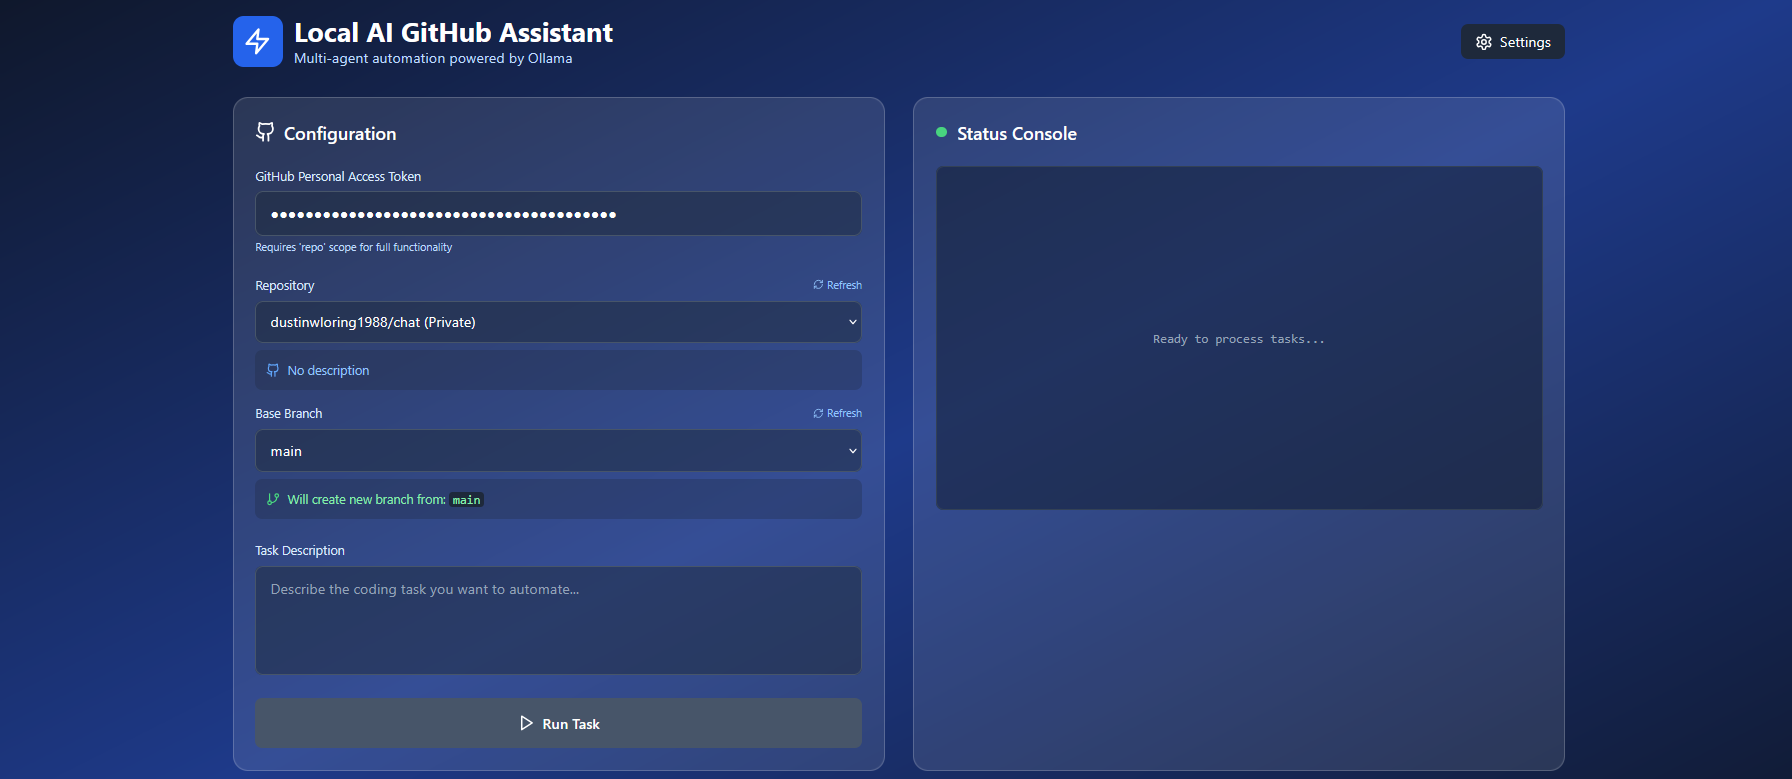
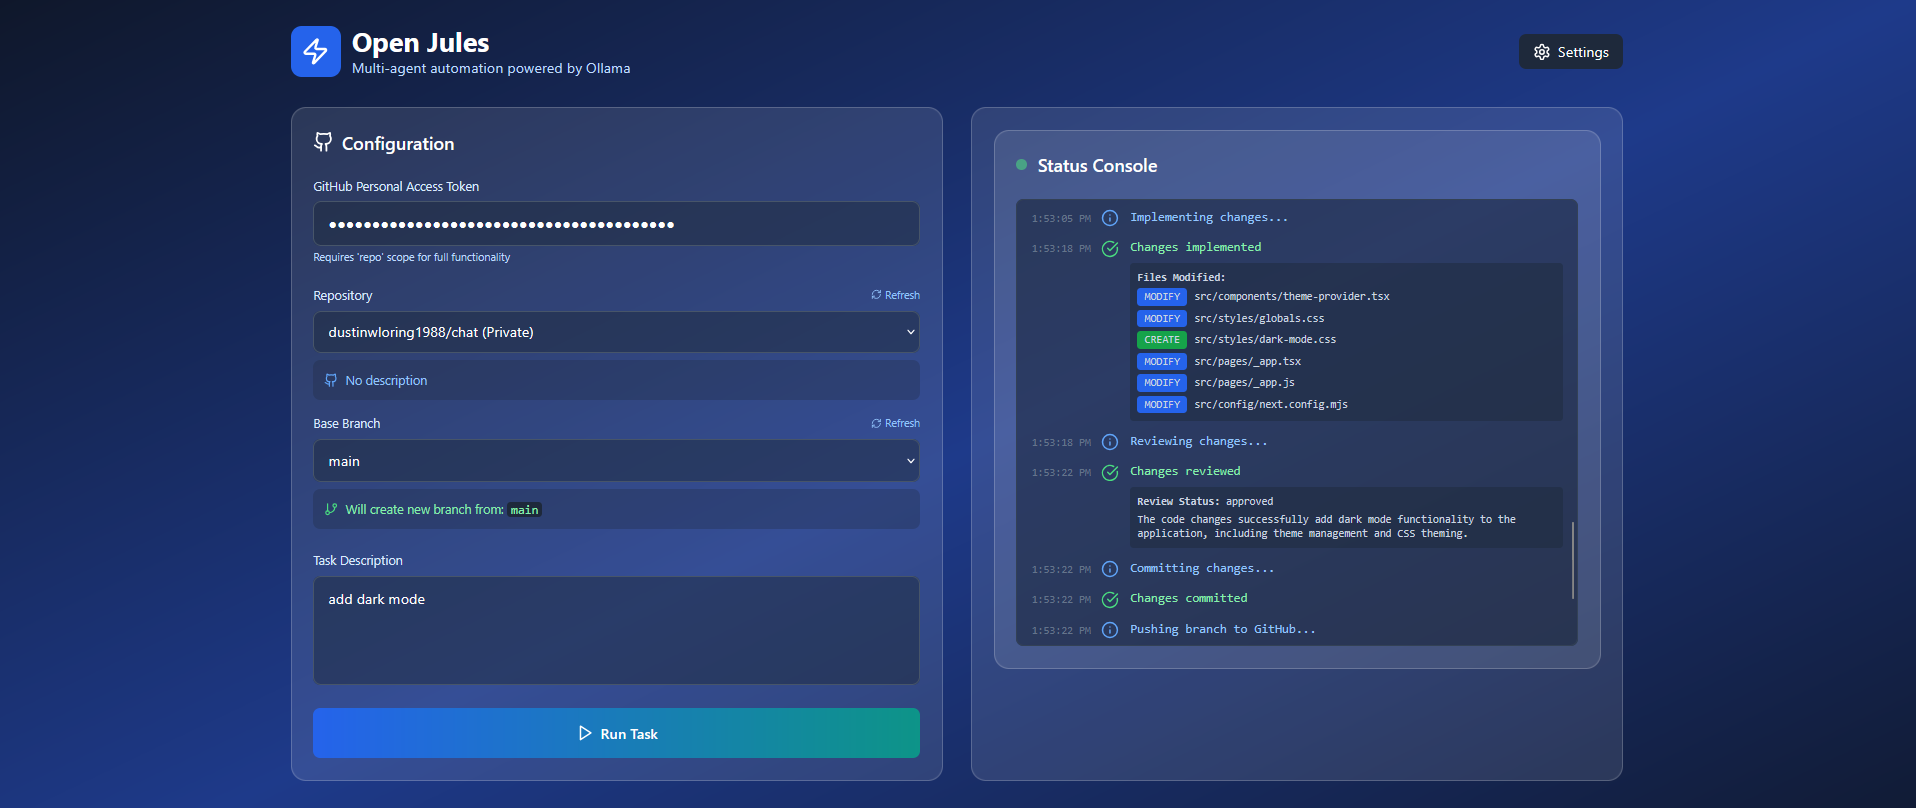
new cover, new name

diff --git a/src/App.tsx b/src/App.tsx
@@ -135,7 +135,7 @@ function App() {
               <Zap className="w-8 h-8 text-white" />
             </div>
             <div>
-              <h1 className="text-3xl font-bold text-white">Local AI GitHub Assistant</h1>
+              <h1 className="text-3xl font-bold text-white">Open Jules</h1>
               <p className="text-blue-200">Multi-agent automation powered by Ollama</p>
             </div>
           </div>
